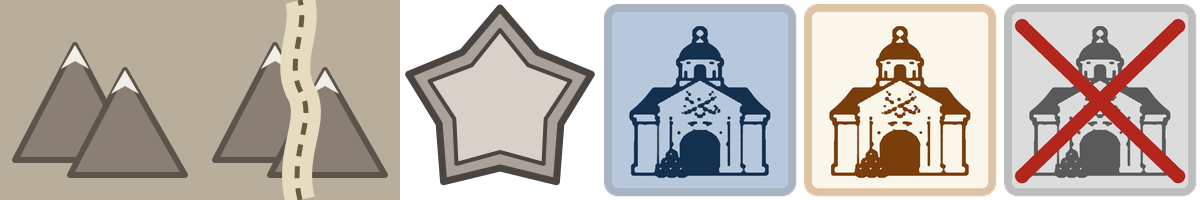
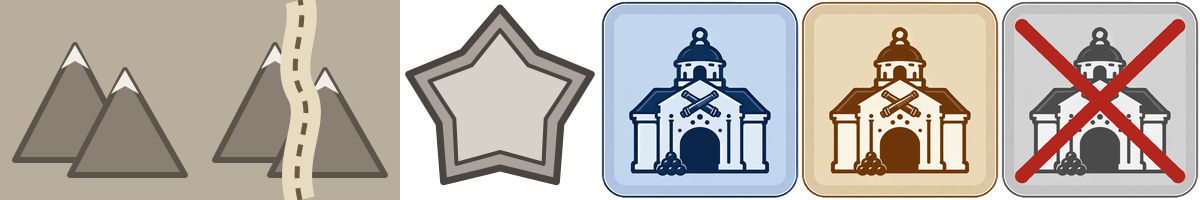
Jeu de la guerre : nouvel arsenal pour la skin « Pictogrammes »
Arsenal redessiné : canons croisés plus nets sur le fronton, tas de
boulets décalé à gauche pour ne plus se confondre avec la porte. La
tuile Nord est reprise telle quelle (src/arsenal-tuile.png) ; le Sud et
l'arsenal détruit en sont des recolorations.

Claude-Session: https://claude.ai/code/session_01GLvZafqpa9zjgeXFAF2Wvq

diff --git a/src/games/kriegspiel/extra/sprites/pictos/gen.py b/src/games/kriegspiel/extra/sprites/pictos/gen.py
@@ -9,12 +9,13 @@ forment une série.
 
 Sources : pictos/src/*.png. Sorties : ../../res/images/pictos/unites.png (6 x 2
 cases) et terrain.png (6 cases ; montagne, col et forteresse sont repris de la
-planche « Carte »). Les marqueurs restent communs aux deux skins.
+planche « Carte » ; l'arsenal vient de src/arsenal-tuile.png). Les marqueurs
+restent communs aux deux skins.
 
     python3 gen.py
 """
 import os
-from PIL import Image, ImageChops, ImageDraw, ImageFilter
+from PIL import Image, ImageChops, ImageDraw, ImageFilter, ImageOps
 
 HERE = os.path.dirname(os.path.abspath(__file__))
 SRC = os.path.join(HERE, "src")
@@ -144,17 +145,26 @@ def unit_tile(spec, side):
     return img.resize((C, C), Image.LANCZOS)
 
 
+# Arsenal : tuile dessinée à part (src/arsenal-tuile.png, version Nord, coins
+# transparents). Le Sud et l'arsenal détruit en sont des recolorations : le
+# dessin n'a que trois tons (encre marine, fond bleu clair, façade blanche),
+# lus sur le canal rouge, qui les sépare le mieux.
+ARSENAL_TONES = {        # encre, fond, façade
+    "S": ("#6e3608", "#ead8b6", "#fbf5e8"),
+    "X": ("#4a4a4a", "#d2d2d2", "#f2f2f2"),
+}
+
+
 def arsenal_tile(kind):
-    """Arsenal sur fond de case, dans le style des tuiles « Carte »."""
-    pal = {
-        "N": dict(bg="#b8c8dc", edge="#a9b4c2", ink="#14304f"),
-        "S": dict(bg="#faf6ea", edge="#dfc3a6", ink="#7a3d0c"),
-        "X": dict(bg="#dcdcdc", edge="#bdbdbd", ink="#5a5a5a"),
-    }[kind]
-    img = Image.new("RGBA", (CK, CK), (0, 0, 0, 0))
-    d = ImageDraw.Draw(img)
-    d.rounded_rectangle([(4 * K, 4 * K), (196 * K, 196 * K)], radius=14 * K, fill=pal["bg"], outline=pal["edge"], width=8 * K)
-    img.alpha_composite(symbol_layer(dict(src="arsenal.png", mode="trait", grow=0.8, box=(150, 150)), pal["ink"]))
+    src = Image.open(os.path.join(SRC, "arsenal-tuile.png")).convert("RGBA")
+    if kind != "N":
+        ink, bg, light = ARSENAL_TONES[kind]
+        red = src.split()[0]
+        tinted = ImageOps.colorize(red, black=ink, mid=bg, white=light,
+                                   blackpoint=10, midpoint=193, whitepoint=222).convert("RGBA")
+        tinted.putalpha(src.split()[3])
+        src = tinted
+    img = src.resize((CK, CK), Image.LANCZOS)
     if kind == "X":
         d = ImageDraw.Draw(img)
         for a, b in (((22, 26), (178, 176)), ((178, 26), (22, 176))):
